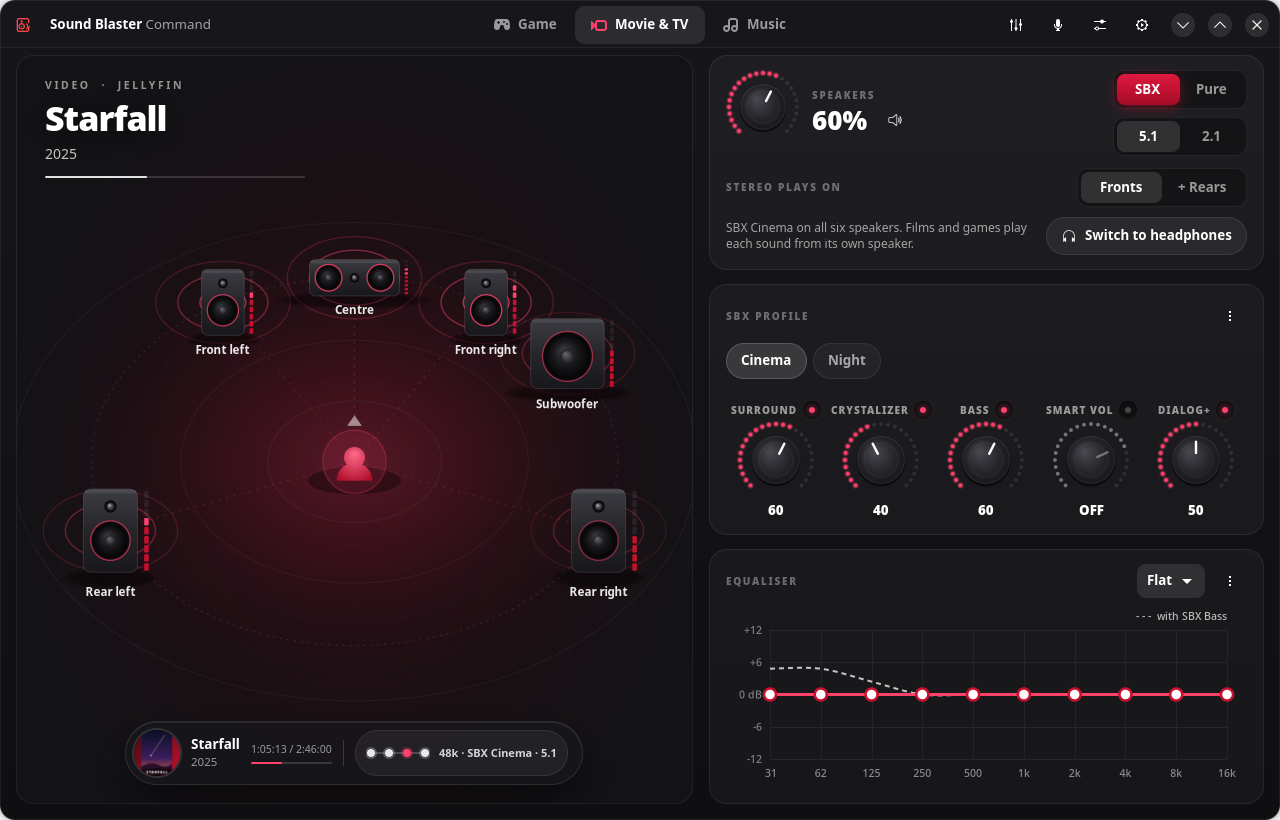
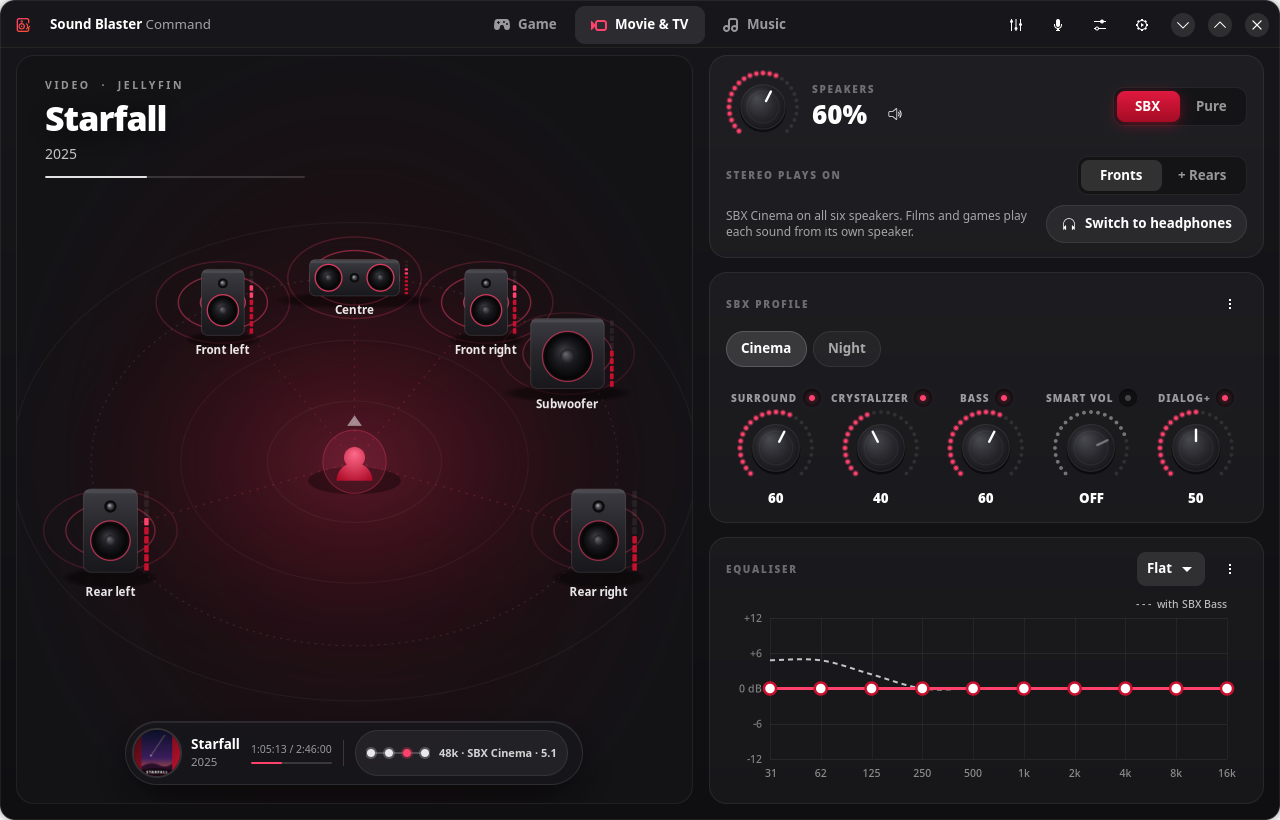
Remove the 5.1 / 2.1 switch
5.1 already plays each source on the speakers it was made for: stereo on
the fronts (or + rears) and the subwoofer, a 5.1 film, game or track on
all six. The switch only forced films onto the fronts. Owners of 2.1
speakers choose 2.1 once in Speaker setup (PipeWire's 2.1 profile mixes
5.1 sources down). Saved settings move to 5.1; "true 2.1" keeps Pure.

Also fixes the tray's "Stereo plays on" menu, which still listed the
removed "All" and would have crashed the tray if chosen; it is now built
from the same list as the window. Screenshots retaken.

diff --git a/src/ui.rs b/src/ui.rs
@@ -108,9 +108,8 @@ pub struct Ui {
     vol_loading: Cell<bool>,
     pub sbx_btn: gtk::ToggleButton,
     pub pure_btn: gtk::ToggleButton,
-    pub listen_btns: Vec<(&'static str, gtk::ToggleButton)>,
     pub stereo_btns: Vec<(&'static str, gtk::ToggleButton)>,
-    stereo_row: gtk::Box,
+    pub stereo_row: gtk::Box,
     pub mode_desc: gtk::Label,
     pub out_switch: gtk::Button,
 
@@ -470,10 +469,8 @@ pub fn build(app: &adw::Application, jobs: Sender<Job>, events: async_channel::R
     vtext.append(&out_label);
     vtext.append(&vrow);
     let (mode_seg, mode_btns) = segmented(&["SBX", "Pure"], true);
-    let (listen_seg, lbtns) = segmented(&["5.1", "2.1"], false);
     let segs = gtk::Box::builder().orientation(gtk::Orientation::Vertical).spacing(8).valign(gtk::Align::Center).build();
     segs.append(&mode_seg);
-    segs.append(&listen_seg);
     let top = gtk::Box::builder().spacing(12).build();
     top.append(&vol_knob);
     top.append(&vtext);
@@ -744,7 +741,6 @@ pub fn build(app: &adw::Application, jobs: Sender<Job>, events: async_channel::R
     toasts.set_child(Some(&split));
     win.set_content(Some(&toasts));
 
-    let listen_btns: Vec<(&'static str, gtk::ToggleButton)> = vec![("51", lbtns[0].clone()), ("21", lbtns[1].clone())];
     let stereo_btns: Vec<(&'static str, gtk::ToggleButton)> = model::STEREO_ON.iter().map(|x| x.0).zip(sbtns).collect();
     let ui = Rc::new(Ui {
         s: RefCell::new(s),
@@ -759,7 +755,7 @@ pub fn build(app: &adw::Application, jobs: Sender<Job>, events: async_channel::R
         path_dots, path_label, path_box, np: RefCell::new(None), np_at: Cell::new(Instant::now()), np_gone: Cell::new(None),
         path_kinds: RefCell::new(vec![]), playing_source: RefCell::new(None),
         vol_adj, vol_label, out_label, mute, vol_loading: Cell::new(false),
-        sbx_btn: mode_btns[0].clone(), pure_btn: mode_btns[1].clone(), listen_btns, stereo_btns, stereo_row, mode_desc, out_switch,
+        sbx_btn: mode_btns[0].clone(), pure_btn: mode_btns[1].clone(), stereo_btns, stereo_row, mode_desc, out_switch,
         chips, style_btns: RefCell::new(vec![]), chips_key: RefCell::new(String::new()), scout_box, scout_sw,
         profile_btns, profile_card, fx,
         eq_on, eq_preset, eq_names: RefCell::new(vec![]), eq_btns, eq_card, eq_bands, eq_view,
@@ -915,10 +911,6 @@ fn connect(ui: &Rc<Ui>, side_close: &gtk::Button) {
     }));
     ui.sbx_btn.connect_toggled(on!(ui, |u, b| if b.is_active() { u.set_sbx(true) }));
     ui.pure_btn.connect_toggled(on!(ui, |u, b| if b.is_active() { u.set_sbx(false) }));
-    for (id, b) in &ui.listen_btns {
-        let id = *id;
-        b.connect_toggled(on!(ui, |u, b| if b.is_active() { u.set_listen(id) }));
-    }
     for (id, b) in &ui.stereo_btns {
         let id = *id;
         b.connect_toggled(on!(ui, |u, b| if b.is_active() { u.set_stereo_on(id) }));
@@ -1198,17 +1190,6 @@ impl Ui {
             s.scout = on && s.activity == "game";
         }
         self.changed(part::FX | part::EQ);
-        self.refresh();
-    }
-
-    pub fn set_listen(&self, mode: &str) {
-        if self.s.borrow().listen == mode {
-            return;
-        }
-        self.s.borrow_mut().listen = mode.into();
-        self.save_now();
-        self.changed(part::FX);
-        self.send(Job::Listen(Box::new(self.s.borrow().clone())));
         self.refresh();
     }
 
@@ -1948,7 +1929,7 @@ impl Ui {
         let st = np.as_ref().and_then(|n| n.stream.clone());
         let app = np.as_ref().map(|n| n.app.clone()).unwrap_or_else(|| "App".into());
         let hp = s.headphones();
-        let out_ch = if hp { 2 } else if s.listen == "21" { 3 } else { model::channels(&s.speaker_config).len() };
+        let out_ch = if hp { 2 } else { model::channels(&s.speaker_config).len() };
         let (src_ch, src_rate) = st.as_ref().map_or((2, 0), |f| (f.channels, f.rate));
         let resample = src_rate != 0 && src_rate != CARD_RATE;
         let mixdown = src_ch > out_ch;
@@ -1958,7 +1939,7 @@ impl Ui {
         let card_rate = crate::media::StreamFmt { rate: CARD_RATE, ..Default::default() }.rate_text();
         let pw = [
             if resample { format!("Resampled {} → {card_rate}", st.as_ref().map(|f| f.rate_text()).unwrap_or_default()) } else { "No resampling".into() },
-            if mixdown { format!("Mixed {} → {}", st.as_ref().map(|f| f.layout()).unwrap_or_default(), if hp { "stereo".into() } else if s.listen == "21" { "2.1".to_string() } else { format!("{out_ch} ch") }) }
+            if mixdown { format!("Mixed {} → {}", st.as_ref().map(|f| f.layout()).unwrap_or_default(), if hp { "stereo".into() } else { format!("{out_ch} ch") }) }
             else if src_ch <= 2 && s.spread_mode() == "rear" { "Stereo copied to the rear speakers (3 dB quieter)".into() }
             else if src_ch <= 2 { "Stereo stays on the front speakers".into() } else { "Each channel to its own speaker".into() },
         ].join(" · ");
@@ -1977,7 +1958,6 @@ impl Ui {
         } else { "Pure: SBX effects off, EQ off".into() };
         let eq_changes = { let (c, on) = model::effective_eq(&s); on && c.iter().any(|v| *v != 0) };
         let speakers = if hp { "Headphones".to_string() }
-            else if s.listen == "21" { "Front left · Front right · Subwoofer".into() }
             else if src_ch <= 2 && s.spread_mode() == "rear" { "Fronts, rears and subwoofer (centre silent)".into() }
             else if src_ch <= 2 { "Front left · Front right · Subwoofer (centre and rears silent)".into() }
             else { "All six speakers".into() };
@@ -1997,10 +1977,11 @@ impl Ui {
         let np = self.np.borrow();
         let st = np.as_ref().and_then(|n| n.stream.clone());
         let r = st.as_ref().map(|f| f.rate_text().replace(" kHz", "k")).unwrap_or_default();
-        let lay = if s.headphones() { "HP".to_string() } else if s.listen == "21" { "2.1".into() }
+        let lay = if s.headphones() { "HP".to_string() }
                   else if st.as_ref().is_some_and(|f| f.channels <= 2) {
                       match s.spread_mode() { "rear" => "2.0 + rears".into(), _ => "2.0".into() }
-                  } else { "5.1".into() };
+                  } else if model::channels(&s.speaker_config).len() < 6 { s.speaker_config.clone() }
+                  else { "5.1".into() };
         let rate = if r.is_empty() || r == "48k" { r } else { format!("{r} → 48k") };
         let sound = if s.sbx_active() { format!("SBX {}", s.cur_profile()) } else { "Pure".into() };
         self.path_label.set_label(&[rate, sound, lay].into_iter().filter(|x| !x.is_empty()).collect::<Vec<_>>().join(" · "));
@@ -2066,7 +2047,7 @@ impl Ui {
         let hp = s.headphones();
         let cfg = model::channels(&s.speaker_config);
         // The room lists the speakers in its own order (FL, FC, FR, LFE, RL, RR).
-        let plays = room::SPEAKERS.map(|(c, _, _)| !hp && cfg.contains(&c) && (s.listen != "21" || matches!(c, "FL" | "FR" | "LFE")));
+        let plays = room::SPEAKERS.map(|(c, _, _)| !hp && cfg.contains(&c));
         let lv = self.levels.get();
         let levels: [f32; 6] = std::array::from_fn(|i| if plays[i] { lv[ch_index(room::SPEAKERS[i].0)] } else { 0.0 });
         let top = if self.np_head.is_visible() { self.np_head.height() as f64 + 40.0 } else { 30.0 };
@@ -2074,7 +2055,7 @@ impl Ui {
             plays, levels, lit: self.room_lit.borrow().clone(), headphones: hp,
             time: self.t0.elapsed().as_secs_f64(), top: top.max(120.0),
             bottom: if self.capsule.is_visible() { 96.0 } else { 30.0 },
-            off_note: if hp { "headphones on" } else if s.listen == "21" { "off in 2.1" } else { "not connected" },
+            off_note: if hp { "headphones on" } else { "not connected" },
         }
     }
 
@@ -2237,17 +2218,13 @@ impl Ui {
         self.vol_label.set_label(&format!("{}%", self.vol_adj.value().round() as i64));
         self.sbx_btn.set_active(s.sbx_enabled);
         self.pure_btn.set_active(!s.sbx_enabled);
-        for (id, b) in &self.listen_btns {
-            b.set_active(*id == s.listen);
-            b.set_sensitive(!hp && s.has_sub());
-        }
         for (id, b) in &self.stereo_btns {
             b.set_active(*id == s.stereo_on);
         }
-        let can_spread = !hp && s.listen != "21" && model::channels(&s.speaker_config).contains(&"RL");
+        let can_spread = !hp && model::channels(&s.speaker_config).contains(&"RL");
         self.stereo_row.set_sensitive(can_spread);
         self.stereo_row.set_tooltip_text(if can_spread { None } else if hp { Some("Headphones are stereo") }
-            else { Some("Only with rear speakers and 5.1 listening") });
+            else { Some("Only with rear speakers (Speaker setup)") });
         self.out_switch.set_child(Some(&{
             let b = gtk::Box::builder().spacing(8).build();
             b.append(&gtk::Image::from_icon_name(if hp { "audio-speakers-symbolic" } else { "audio-headphones-symbolic" }));
@@ -2369,12 +2346,14 @@ pub fn mode_description(s: &Settings) -> String {
         "rear" => " Stereo also plays on the rear speakers.",
         _ => "",
     };
-    let d = match (s.sbx_active(), s.listen == "21") {
-        (true, false) => format!("SBX {p} on all six speakers. Films and games play each sound from its own speaker."),
-        (true, true) => format!("SBX {p} on the front speakers and subwoofer only."),
-        (false, false) if s.spreads() => "Pure 5.1: no SBX effects. The equaliser stays on.".into(),
-        (false, false) => "Pure 5.1: every channel as mixed, with no SBX effects. The equaliser stays on.".into(),
-        (false, true) => "Pure 2.1: front speakers and subwoofer only, with no SBX effects. The equaliser stays on.".into(),
+    let six = model::channels(&s.speaker_config).len() == 6;
+    let cfg = &s.speaker_config;
+    let d = match (s.sbx_active(), six) {
+        (true, true) => format!("SBX {p} on all six speakers. Films and games play each sound from its own speaker."),
+        (true, false) => format!("SBX {p} on your {cfg} speakers."),
+        (false, true) if s.spreads() => "Pure 5.1: no SBX effects. The equaliser stays on.".into(),
+        (false, true) => "Pure 5.1: every channel as mixed, with no SBX effects. The equaliser stays on.".into(),
+        (false, false) => format!("Pure {cfg}: no SBX effects. The equaliser stays on."),
     };
     format!("{d}{stereo}")
 }

diff --git a/src/model.rs b/src/model.rs
@@ -192,7 +192,9 @@ pub struct Settings {
     pub trim: BTreeMap<String, f64>,
     pub audio_position: Option<Vec<String>>,
     pub upmix: bool,
-    /// Which speakers play: "fill", "51" or "21" (see LISTEN_MODES).
+    /// Always "51" now: stereo plays on the fronts (or + rears) and 5.1 sources
+    /// on every speaker, by itself. 2.1 speakers are set in Speaker setup.
+    /// Kept so older settings files still load.
     /// Separate from SBX, which is `sbx_enabled`.
     pub listen: String,
     pub safe_volume: bool,
@@ -287,17 +289,13 @@ pub fn styles_for(a: &str) -> &'static [&'static str] {
 /// (id, button label, what it means). Separate from the SBX profile.
 /// (id, button label, what it means). Only about which speakers play;
 /// SBX is a separate on/off choice, so any combination works.
-pub const LISTEN_MODES: [(&str, &str, &str); 2] = [
-    ("51", "5.1", "Every sound as mixed. Stereo plays from the front speakers."),
-    ("21", "2.1", "Front left and right plus the subwoofer only, for everything."),
-];
 
 impl Settings {
     /// Where stereo plays with 5.1 speakers: "front" (as mixed), "rear"
     /// (fronts + rears). Always "front" in 2.1 and on
     /// headphones. 5.1 sources are never changed.
     pub fn spread_mode(&self) -> &str {
-        if self.headphones() || self.listen == "21" || !channels(&self.speaker_config).contains(&"RL") {
+        if self.headphones() || !channels(&self.speaker_config).contains(&"RL") {
             return "front";
         }
         match self.stereo_on.as_str() {
@@ -537,16 +535,12 @@ impl Settings {
         if !ACTIVITIES.iter().any(|x| x.0 == self.activity) {
             self.activity = "music".into();
         }
-        // Older listening modes mixed SBX on/off with the speaker choice.
-        match self.listen.as_str() {
-            // "Fill the room" (stereo spread over every speaker) was removed.
-            "sbx" | "fill" => self.listen = "51".into(),
-            "true51" => (self.listen, self.sbx_enabled) = ("51".into(), false),
-            "true21" => (self.listen, self.sbx_enabled) = ("21".into(), false),
-            m if LISTEN_MODES.iter().any(|x| x.0 == m) => {}
-            // Older still: "stereo on every speaker" meant Fill the room.
-            _ => self.listen = "51".into(),
+        // The 5.1 / 2.1 switch was removed: 5.1 already plays each source on
+        // the speakers it was made for. Older modes also carried SBX on/off.
+        if matches!(self.listen.as_str(), "true51" | "true21") {
+            self.sbx_enabled = false;
         }
+        self.listen = "51".into();
         // The upmix file stays on; spreading is switched per stream instead,
         // so changing the listening mode never restarts the audio system.
         self.upmix = true;
@@ -982,9 +976,9 @@ mod tests {
         s.stereo_on = "all".into();
         s.sanitise();
         assert_eq!(s.spread_mode(), "rear", "the removed \"all\" becomes + Rears");
-        s.listen = "21".into();
-        assert_eq!(s.spread_mode(), "front", "2.1 is fronts and sub only");
-        s.listen = "51".into();
+        s.speaker_config = "2.1".into();
+        assert_eq!(s.spread_mode(), "front", "2.1 speakers have no rears");
+        s.speaker_config = "5.1".into();
         s.output = "headphones".into();
         assert_eq!(s.spread_mode(), "front");
         s.output = "speakers".into();
@@ -1066,7 +1060,7 @@ mod tests {
         let mut s = Settings::default();
         s.sanitise();
         assert_eq!(s.listen, "51");
-        for (old_mode, new_mode, sbx) in [("sbx", "51", true), ("fill", "51", true), ("true51", "51", false), ("true21", "21", false)] {
+        for (old_mode, new_mode, sbx) in [("sbx", "51", true), ("fill", "51", true), ("true51", "51", false), ("true21", "51", false), ("21", "51", true)] {
             let mut o = Settings::default();
             o.listen = old_mode.into();
             o.sanitise();
@@ -1075,13 +1069,10 @@ mod tests {
         s.set_activity("movie"); // Cinema: SBX Surround, Crystalizer, X-Bass, Dialog+ on
         let on = |s: &Settings| fx_pairs(s).iter().filter(|(n, v)| n.ends_with("Switch") && *v == V::B(true)).count();
         // Any combination of speakers and SBX works.
-        for m in ["51", "21"] {
-            for sbx in [true, false] {
-                s.listen = m.into();
-                s.sbx_enabled = sbx;
-                assert!(!s.spreads());
-                assert_eq!(on(&s) > 0, sbx, "{m} with SBX {sbx}");
-            }
+        for sbx in [true, false] {
+            s.sbx_enabled = sbx;
+            assert!(!s.spreads());
+            assert_eq!(on(&s) > 0, sbx, "SBX {sbx}");
         }
         s.sbx_enabled = false;
         s.game_footsteps = true;

diff --git a/src/selftest.rs b/src/selftest.rs
@@ -33,10 +33,6 @@ fn pos(names: &[String], n: &str) -> u32 {
     names.iter().position(|x| x == n).unwrap() as u32
 }
 
-fn listen(u: &Ui, id: &str) -> gtk::ToggleButton {
-    u.listen_btns.iter().find(|(i, _)| *i == id).unwrap().1.clone()
-}
-
 fn song() -> NowPlaying {
     NowPlaying { kind: "Song".into(), activity: "music", app: "Spotify".into(), title: "Do I Wanna Know?".into(),
         artist: "Arctic Monkeys".into(), album: "AM".into(), length: Some(272.0), position: Some(102.0), playing: true,
@@ -89,21 +85,12 @@ fn steps() -> Vec<Step> {
         u.sbx_btn.set_active(true);
         check(s(u).sbx_enabled && u.mode_desc.label().starts_with("SBX "), u.mode_desc.label().to_string())
     });
-    step!("5.1 and 2.1", |u: &Ui| {
-        listen(u, "21").set_active(true);
-        check(s(u).listen == "21" && u.mode_desc.label().contains("subwoofer only"), "2.1")?;
-        listen(u, "51").set_active(true);
-        check(s(u).listen == "51", "5.1")
-    });
-    step!("Stereo plays on fronts, + rears, or all", |u: &Ui| {
+    step!("Stereo plays on the fronts or + rears", |u: &Ui| {
         let b = |id: &str| u.stereo_btns.iter().find(|(i, _)| *i == id).unwrap().1.clone();
         b("rear").set_active(true);
         check(s(u).spread_mode() == "rear" && u.mode_desc.label().contains("rear speakers"), "+ rears")?;
         u.on_now_playing(Some(song()));
         check(u.signal_path()[1].3.contains("copied to the rear") && u.path_label.label().ends_with("2.0 + rears"), "path shows the copy")?;
-        listen(u, "21").set_active(true);
-        check(s(u).spread_mode() == "front" && !b("rear").parent().unwrap().parent().unwrap().is_sensitive(), "2.1 never spreads")?;
-        listen(u, "51").set_active(true);
         b("front").set_active(true);
         check(s(u).spread_mode() == "front", "fronts")?;
         u.np_gone.set(Some(Instant::now() - Duration::from_secs(20)));
@@ -126,7 +113,7 @@ fn steps() -> Vec<Step> {
         d.unwrap().force_close();
         u.set_output("headphones");
         check(u.out_label.label() == "HEADPHONES" && u.test_rows.borrow().len() == 2, "headphones")?;
-        check(!listen(u, "51").is_sensitive(), "5.1/2.1 make no sense on headphones")?;
+        check(!u.stereo_row.is_sensitive(), "stereo options make no sense on headphones")?;
         u.set_output("speakers");
         check(u.test_rows.borrow().len() == 6, "speakers")
     });

diff --git a/src/tray.rs b/src/tray.rs
@@ -36,7 +36,7 @@ impl Tray {
     fn summary(&self) -> String {
         let s = &self.s;
         let sound = if s.sbx_active() { format!("SBX {}", s.cur_profile()) } else { "Pure".into() };
-        let spk = if s.headphones() { "Headphones".to_string() } else if s.listen == "21" { "2.1".into() } else { "5.1".into() };
+        let spk = if s.headphones() { "Headphones".to_string() } else { s.speaker_config.clone() };
         format!("{} · {sound} · {spk}", model::activity_label(&s.activity))
     }
 
@@ -120,20 +120,15 @@ impl ksni::Tray for Tray {
         ];
         if !s.headphones() {
             items.push(MenuItem::Separator);
-            items.push(RadioGroup {
-                selected: usize::from(s.listen == "21"),
-                select: Box::new(|t: &mut Self, i| t.edit(part::FX, true, |s| s.listen = if i == 0 { "51" } else { "21" }.into())),
-                options: vec![RadioItem { label: "5.1 · all six speakers".into(), ..Default::default() },
-                              RadioItem { label: "2.1 · fronts and subwoofer".into(), ..Default::default() }],
-            }.into());
-            if s.listen != "21" && model::channels(&s.speaker_config).contains(&"RL") {
+            if model::channels(&s.speaker_config).contains(&"RL") {
                 items.push(SubMenu {
                     label: format!("Stereo plays on: {}", model::STEREO_ON.iter().find(|x| x.0 == s.stereo_on).map_or("Fronts", |x| x.1)),
                     submenu: vec![RadioGroup {
                         selected: model::STEREO_ON.iter().position(|x| x.0 == s.stereo_on).unwrap_or(0),
                         select: Box::new(|t: &mut Self, i| t.edit(0, true, |s| s.stereo_on = model::STEREO_ON[i].0.into())),
-                        options: [("Front speakers", ""), ("Fronts + rears", ""), ("All speakers", "")].iter()
-                            .map(|(l, _)| RadioItem { label: l.to_string(), ..Default::default() }).collect(),
+                        // From the same list as the window, so they can't disagree.
+                        options: model::STEREO_ON.iter()
+                            .map(|(_, l, _)| RadioItem { label: l.to_string(), ..Default::default() }).collect(),
                     }.into()],
                     ..Default::default()
                 }.into());

diff --git a/src/system.rs b/src/system.rs
@@ -552,10 +552,7 @@ fn default_of(kind: &str) -> String {
 fn fix_defaults(s: &Settings) {
     let sink = default_of("sink");
     let hw = sink_name(s).unwrap_or_default();
-    let want = if s.listen == "21" && !s.headphones() && node_id(OUT_STEREO).is_some() {
-        // True 2.1: front left/right only; the card's bass redirection feeds the subwoofer.
-        OUT_STEREO.to_string()
-    } else if s.distance_on && !s.headphones() {
+    let want = if s.distance_on && !s.headphones() {
         OUT_MAIN.to_string()
     } else {
         hw.clone()

diff --git a/README.md b/README.md
@@ -50,7 +50,9 @@ one window and works around those defaults.
 - A room view of your speakers with live level meters. Click a speaker to play a test sound on it.
 - What's playing (title, artist, cover art) and the path its sound takes: the app's format, any resampling or
   downmixing by PipeWire, the card's processing, and the speakers it reaches.
-- SBX or Pure mode (Pure turns off the SBX effects; your equaliser stays on), and 5.1 or 2.1 speaker layouts.
+- SBX or Pure mode (Pure turns off the SBX effects; your equaliser stays on).
+- Each source plays on the speakers it was made for, by itself: a stereo song on the fronts and subwoofer,
+  a 5.1 film, game or track on all six.
 - Stereo can play on the fronts only, or on the fronts and rears. 5.1 films and games play as mixed.
 - Game, Movie & TV and Music modes, picked automatically when Steam, a film or Spotify starts if you want.
   Settings are remembered per game and app, and the Music EQ can follow each song's genre.
@@ -72,8 +74,9 @@ Scout Mode (footsteps and quiet sounds sooner) appears only for games.</td>
 <td><img src="docs/screenshots/pure.png" alt="Pure mode: SBX effects off, equaliser on"><br>
 <b>Pure.</b> The SBX effects are off and their knobs grey out. The equaliser stays on, as in Creative's
 own app, where SBX and the equaliser are separate switches.</td>
-<td><img src="docs/screenshots/two-one.png" alt="2.1 mode: centre and rears off"><br>
-<b>2.1.</b> Everything on the front speakers and subwoofer. The centre and rears dim and say so.</td>
+<td><img src="docs/screenshots/music.png" alt="A stereo song playing on the front speakers and subwoofer"><br>
+<b>Music.</b> A stereo song plays on the front speakers and subwoofer; the centre and rears wait. A 5.1
+track, film or game uses all six speakers by itself.</td>
 </tr>
 <tr>
 <td><img src="docs/screenshots/rears.png" alt="Stereo playing on the front and rear speakers"><br>
@@ -221,7 +224,7 @@ Tips:
 |---|---|
 | `model.rs` | Settings, Creative's SBX profiles and EQ presets (exact driver values), the ALSA control values for each setting, Pure, Speaker boost, per-app memory |
 | `card.rs` | Writes the card's ALSA controls and hardware levels |
-| `system.rs` | PipeWire / WirePlumber: 5.1 channel order, soft-mixer, extra outputs (2.1, stereo), stream re-labelling, stereo on the rears or all speakers (per-stream upmix), volume |
+| `system.rs` | PipeWire / WirePlumber: 5.1 channel order, soft-mixer, extra outputs (2.1, stereo), stream re-labelling, stereo on the rears (per-stream upmix), volume |
 | `worker.rs` | Background thread for all card and audio work; the `watch` service; what's-playing detection |
 | `detect.rs` | Tells Game / Movie & TV / Music from the playing streams, MPRIS players and Steam/Proton/Wine processes |
 | `media.rs` | Now playing: MPRIS metadata, stream format from PipeWire, Steam game names and artwork |

diff --git a/AGENTS.md b/AGENTS.md
@@ -40,6 +40,7 @@ This file is the project's committed home for project-intrinsic agent knowledge:
 
 - `room::SPEAKERS` is ordered FL,FC,FR,LFE,RL,RR; `meters::ORDER` is FL,FR,FC,LFE,RL,RR. Map between them with `ch_index`.
 - "Stereo plays on" (`stereo_on`: front | rear) is applied per stream with `pw-cli set-param ... Props` channelmix params (`simple` upmix, `fc-cutoff` 0 so the centre stays silent). "All" (centre too) was removed on 2026-10-27: PipeWire fills the centre with L+R (3 dB above each front, no level setting; `fc-cutoff` low-passes at about half its value), which sounded hollow/coloured on stereo recordings; saved "all" migrates to "rear". `spread_streams` skips nodes named `sbcommand*` except `sbcommand.relabel.out`; the speaker test stream is named `sbcommand.test` so it is never changed mid-play.
+- No 5.1 / 2.1 listening switch (removed 2026-10-27 at the user's request): 5.1 already plays stereo on the fronts (or + rears) and 5.1 sources on all six by itself, so the switch only forced films onto the fronts. `Settings.listen` stays for old settings files and is always "51". Owners of 2.1 speakers pick 2.1 in Speaker setup, which selects PipeWire's analog-surround-21 profile (PipeWire downmixes 5.1 sources).
 - Pure = SBX off: the five SBX effects (Bass and Scout included) are off and their knobs grey out; the equaliser stays on, as in Creative's app where SBX and the EQ are separate switches (user's choice, 2026-10-27).
 - The tray (ksni) runs in the `watch` process and may fail to register in the first seconds after login; the watch loop retries.
 - The Spotify Flatpak labels its stereo `aux0,aux1`; `relabel_aux_streams` moves such streams through the `sbcommand.relabel` loopback so they can be placed.
